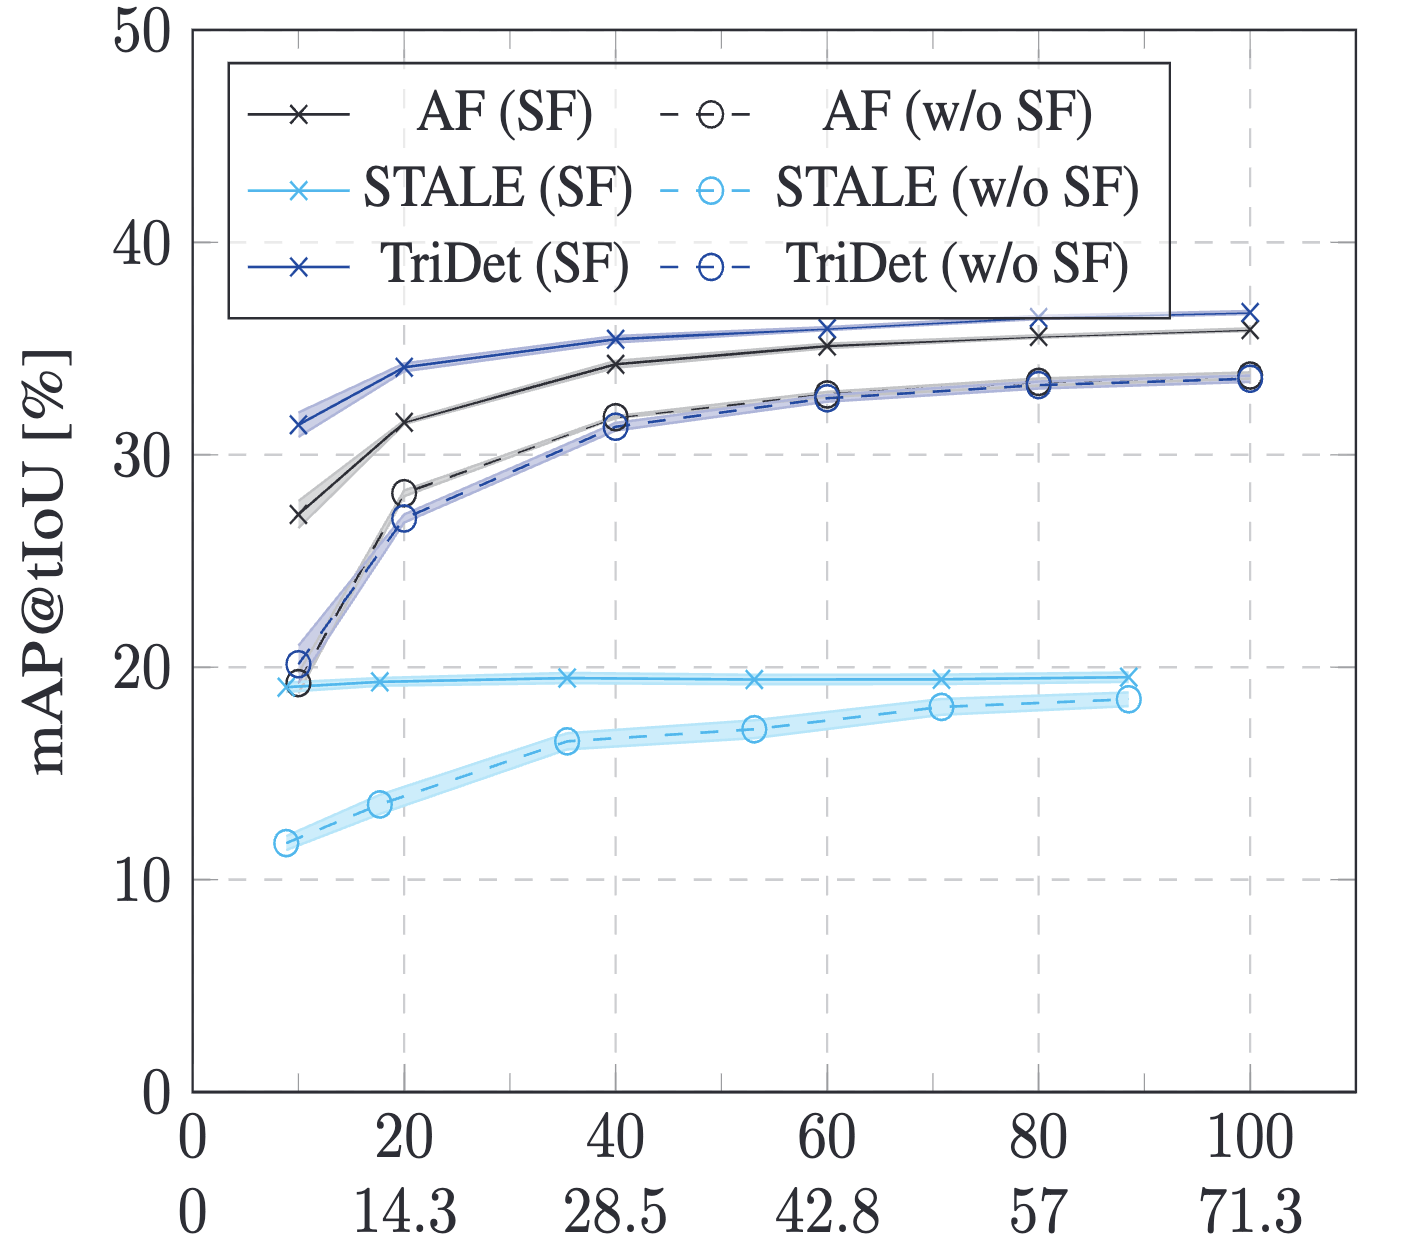
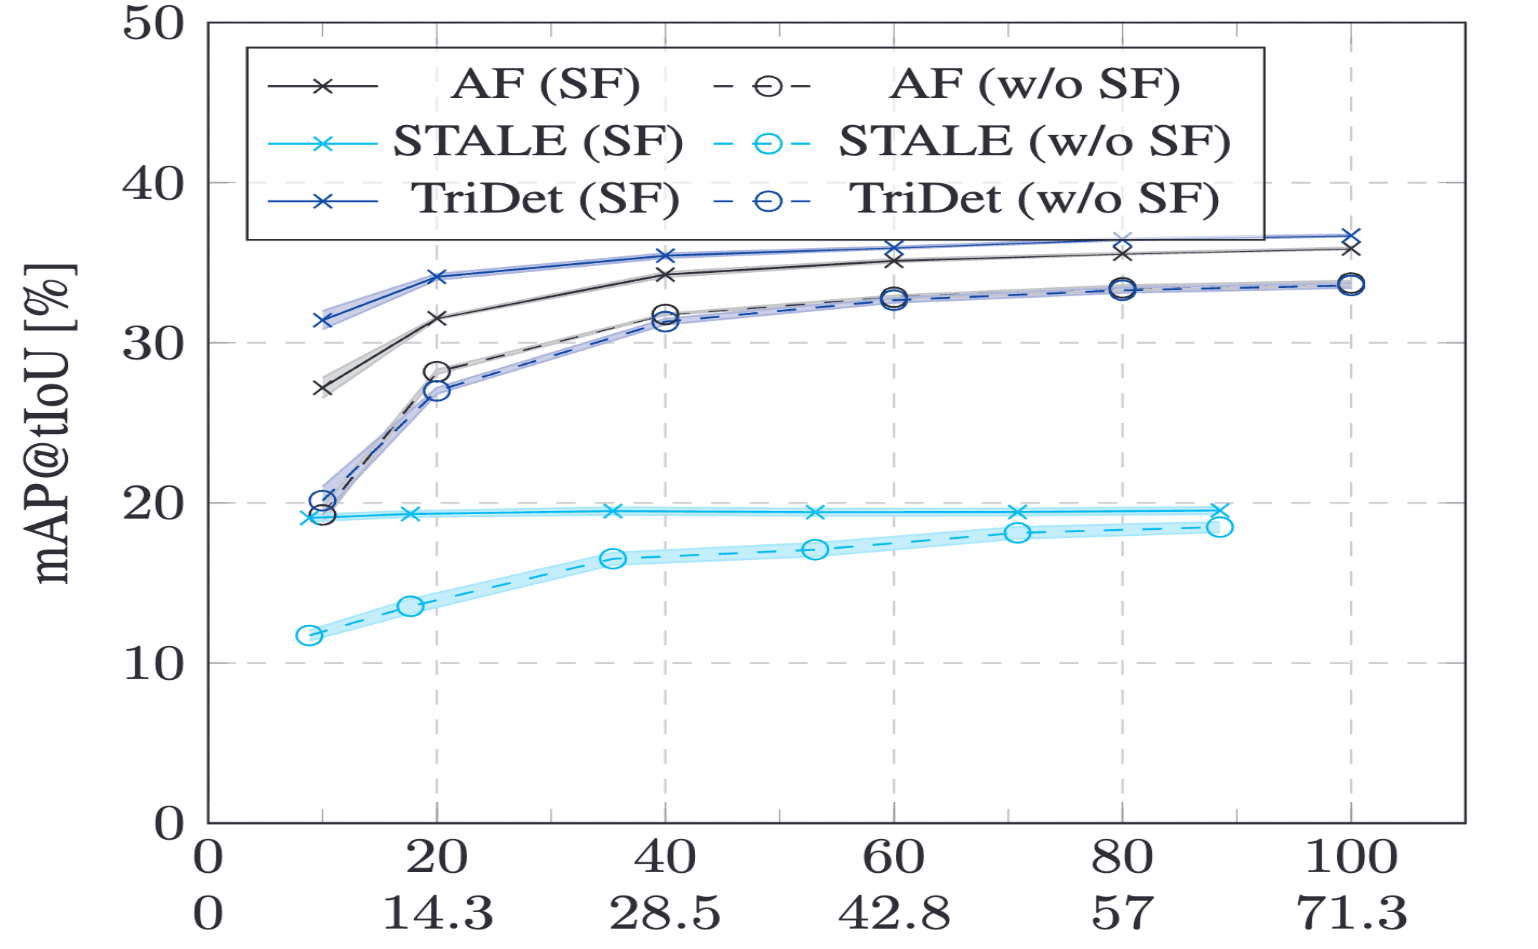
update

diff --git a/_projects/multiview_gaze.md b/_projects/multiview_gaze.md
@@ -3,7 +3,7 @@ show: true
 date: 2023-05-01
 name: Bayesian Multi-View Gaze Estimation
 photo: /assets/images/projects/multiview_gaze.png
-description: Developed an uncertainty-aware multi-view gaze estimation framework that dynamically selects informative camera views for robust gaze prediction. The method uses a Bayesian neural network to estimate the confidence of each face view, while a shared gaze backbone extracts view-specific visual features. These confidence scores are then used for soft feature selection before a final MLP predicts the gaze direction. To improve cross-view reliability, the framework also applies a multi-view consistency loss by transforming predictions from different camera coordinate systems into a shared reference space.
+description: Developed an uncertainty-aware multi-view gaze estimation framework that uses Bayesian confidence estimates to dynamically select informative face views for robust gaze prediction. A shared backbone extracts view-specific features, which are fused by confidence-weighted selection before final gaze regression. Cross-view consistency is further enforced by aligning predictions in a shared reference space.
 ---
 
 